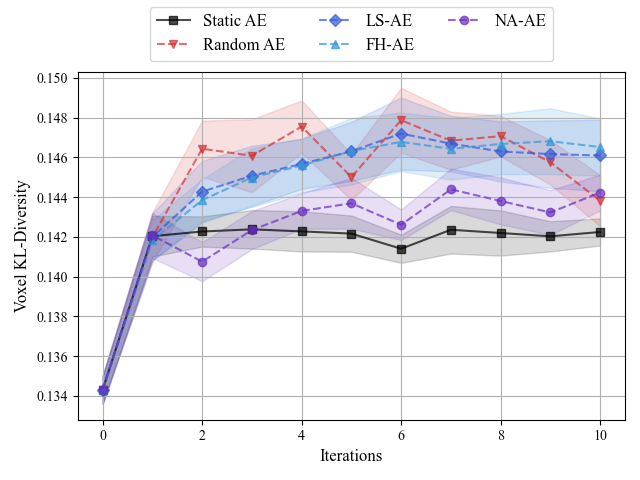
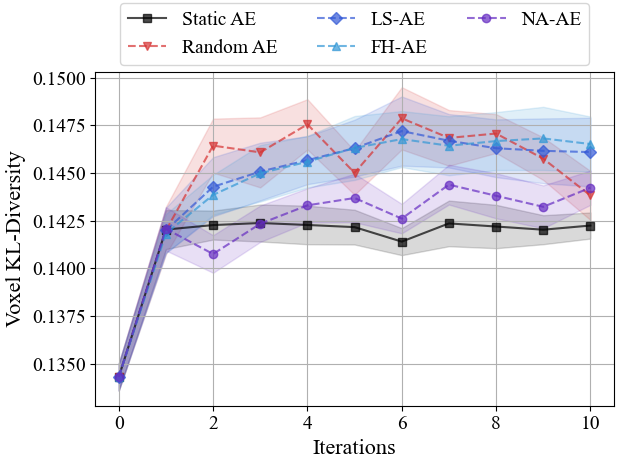
Fixed plots and fixed result files for each metric.

diff --git a/Evaluation/Main.py b/Evaluation/Main.py
@@ -1,3 +1,5 @@
+import matplotlib
+
 from Evaluation.DataLoading import *
 from Evaluation.DiversityMeasures import diversity_from_target, diversity_correlation
 from Evaluation.EvalutationConfig import *
@@ -58,7 +60,9 @@ def confusion_matrix(experiments):
     np.save("./Results/AVG_Results.npy", results)
 
 
-def compare_plot(experiments, function, title, filename="", args=None, save=False):
+def compare_plot(experiments, function, title, filename="", args=None):
+
+    matplotlib.rcParams.update({'font.size': 14})
 
     if args is None:
         figure_name = "./Figures/{}.png".format(function.__name__)
@@ -67,18 +71,20 @@ def compare_plot(experiments, function, title, filename="", args=None, save=Fals
     else:
         figure_name = "./Figures/{}.png".format(filename)
 
+    save = False
     results_dict = {}
 
     try:
         results_dict = np.load("./Results/{}.npy".format(filename), allow_pickle=True).item()
     except FileNotFoundError:
-        print("No file found for {}".format(function.__name__))
+        print("No file found for {}".format(filename))
+        save = True
 
-    del(results_dict['Static AE'])
+    # del(results_dict['Static AE'])
 
     plt.figure()
-    plt.xlabel("Iterations", fontsize=12)
-    plt.ylabel(title, fontsize=12)
+    plt.xlabel("Iterations", fontsize=16)
+    plt.ylabel(title, fontsize=16)
     plt.grid()
 
     counter = 0
@@ -100,18 +106,18 @@ def compare_plot(experiments, function, title, filename="", args=None, save=Fals
 
     plt.tight_layout()
     plt.subplots_adjust(top=0.85)
-    plt.legend(fontsize=12, loc='upper center', ncol=3, bbox_to_anchor=[0.5, 1.21])
-
+    plt.legend(loc='upper center', ncol=3, bbox_to_anchor=[0.5, 1.235])
     plt.savefig(figure_name)
 
     if save:
-        np.save(filename, results_dict)
+        np.save("./Results/{}".format(filename), results_dict)
 
 
 if __name__ == '__main__':
 
     pool = Pool(12)
-    matrix_set(labels)
+    # matrix_set(labels)
+
     # for key in neat_keys:
         # compare_plot(labels, neat_metric, key, args=key, save=True)
 
@@ -123,10 +129,10 @@ if __name__ == '__main__':
 
     # diversity_correlation(labels, pool, None)
 
-    # compare_plot(labels, diversity_from_target, "Voxel KL-Diversity", args=10, filename="KL_Populations", save=True)
-    # compare_plot(labels, diversity_from_target, "Voxel KL-Diversity", args=load_seed_pops(), filename="KL_Seed", save=True)
-    # compare_plot(labels, diversity_from_target, "Voxel KL-Diversity", args=medieval_population(True), filename="KL_Medieval", save=True)
-
+    # compare_plot(labels, diversity_from_target, "Voxel KL-Diversity", args=None, filename="KL_Populations")
+    # compare_plot(labels, diversity_from_target, "Voxel KL-Diversity", args=load_seed_pops(), filename="KL_Seed")
+    # compare_plot(labels, diversity_from_target, "Voxel KL-Diversity", args=medieval_population(True), filename="KL_Medieval")
+    compare_plot(labels, reconstruction_accuracy, "Reconstruction Error", args=None, filename="Reco_Pops")
     # compare_plot(labels, reconstruction_accuracy, "Reconstruction Error", args=medieval_population(True), filename="Reco_Medieval", save=True)
     # novelty_spectrum(labels, pool)
 

diff --git a/Evaluation/ReconstructionMeasures.py b/Evaluation/ReconstructionMeasures.py
@@ -1,4 +1,4 @@
-from Evaluation.DataLoading import load_autoencoder, load_seed_set, load_training_set
+from Evaluation.DataLoading import load_autoencoder, load_seed_set, load_training_set, load_seed_pops, load_populations
 from Evaluation.EvalutationConfig import *
 
 
@@ -15,17 +15,18 @@ def reconstruction_accuracy(experiment, pool, args):
         if args[0] is not None:
             target = args[0]
         elif phase == -1:
-            target = load_seed_set()
+            target = load_seed_pops()
         else:
-            target = load_training_set(experiment)[phase]
+            target = load_populations(experiment)[phase]
 
-        for lattice in target:
-            if experiment[-3:] == 'DAE':
-                compressed = encoder.predict(add_noise(lattice)[None])[0]
-            else:
+        for pop in range(len(target)):
+            print("Phase {} - Population {} - Reconstruction Test".format(phase, pop))
+            pop_errors = []
+            for lattice in target[pop]:
                 compressed = encoder.predict(lattice[None])[0]
-            reconstructed = decoder.predict(compressed[None])[0]
-            errors.append(calculate_error(lattice, reconstructed))
+                reconstructed = decoder.predict(compressed[None])[0]
+                pop_errors.append(calculate_error(lattice, reconstructed))
+            errors.append(np.mean(pop_errors))
 
         means.append(np.mean(errors))
         cis.append(np.std(errors) / np.sqrt(len(errors)) * 1.96)

diff --git a/Evaluation/EvalutationConfig.py b/Evaluation/EvalutationConfig.py
@@ -36,7 +36,7 @@ ae_label = ['Vanilla AE', 'Denoising AE']
 phases_to_evaluate = 10
 
 # labels = ["Random AE"]
-labels = ["Static AE", "Random AE", "LS-AE", "FH-AE", "NA-AE"]
+labels = ["Static AE", "LS-AE", "FH-AE", "NA-AE"]
 colors = ['black', '#d63333', '#3359d6', '#3398d6', '#662dc2']
 markers = ['s', 'v', 'D', '^', 'o']
 linestyles = ['solid', 'dashed', 'dashed', 'dashed', 'dashed']
